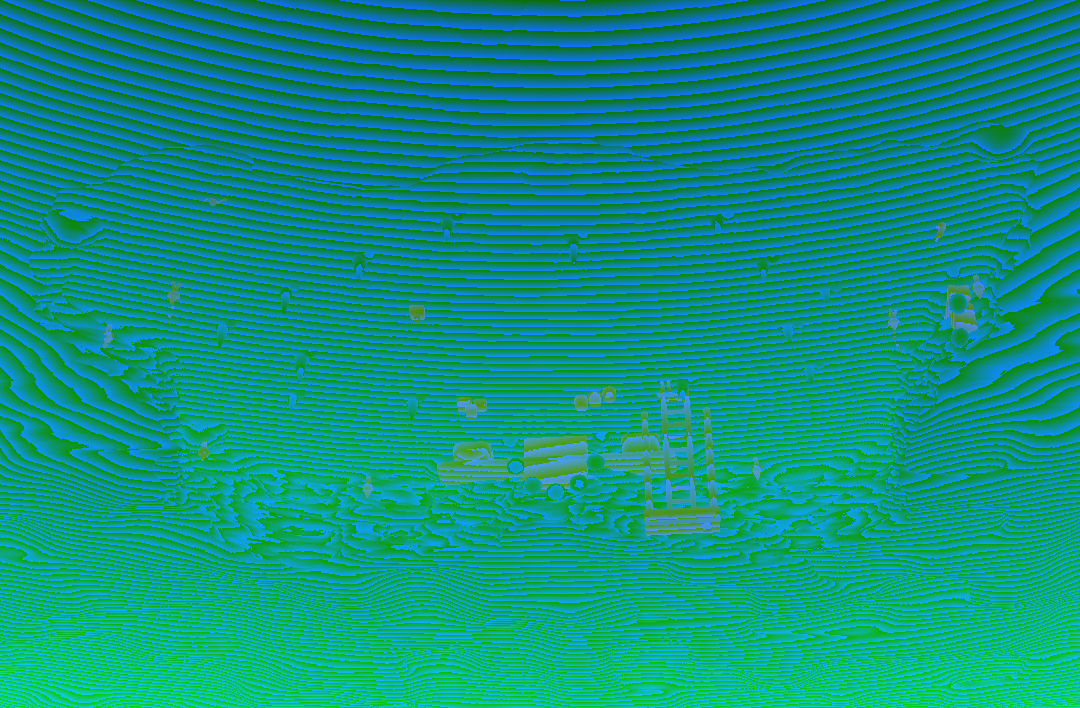
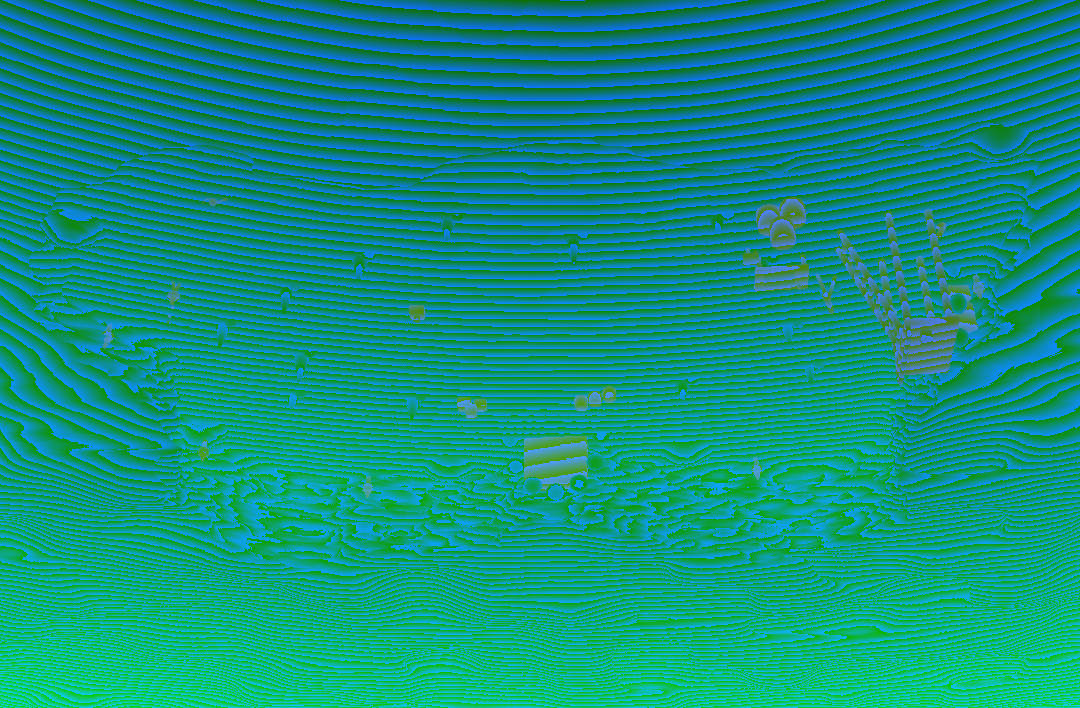
門の横の台を外す・表示の重なり・見張り部屋・施設2つの部屋
Claude-Session: https://claude.ai/code/session_01MpJPWy321815AwYbXUCf2V

diff --git a/index.html b/index.html
@@ -7212,7 +7212,7 @@ document.addEventListener("click", ev => {
 { const _oc2 = openChest19; openChest19 = function (S, c) { if (c.kind !== "lvall") return _oc2(S, c); if (!S.mons.length) return _oc2(S, c);
   return { text: "👑 覚醒", sub: "Lv+3 する子を1体えらんでね", sp: null, feed: 1, awaken: true, evos: [] }; }; }
 
-const VER20 = "No.206（11/18 19:24）";
+const VER20 = "No.207（11/18 20:23）";
 // ================= proto20：ダンジョンを見る画面と、配置する画面を分ける =================
 // ・ダンジョン画面：洞窟を大きく。部屋をタップ → 部屋ボード（全画面）
 // ・🧭育成：育てる→稼ぐ／守るの流れで見る。卒業Lv・毎朝おまかせ
@@ -9571,6 +9571,7 @@ function caveFS24(room, sps){
   const cut = (a, b) => { const i = sc.indexOf(a), j = sc.indexOf(b, i); if (i < 0 || j < 0) throw new Error("cave24 cut " + a); sc = sc.slice(0, i) + sc.slice(j); };
   const rep = (a, b) => { if (!sc.includes(a)) throw new Error("cave24 rep: " + a); sc = sc.split(a).join(b); };
   cut(" // 寝わら", " // 掘る岩"); cut(" // 掘る岩", " // かがり火");
+  if (R.noBeam) cut(" // 坑道の木の支え", " // 訓練台（わら人形）");
   if (!R.keepDummy) cut(" // 訓練台（わら人形）", " // 武器立て");
   if (room === "sleep" || R.noRack) cut(" // 武器立て", " // かがり火");
   const props = R.props.replace(/FIREPIT\(([-\d.]+),([-\d.]+)\)/g, (m, x, z) => FIREPIT24(x, z)).replace("CRATES", CRATES24);
@@ -10610,8 +10611,8 @@ const NEST25 = (x, z, s, n) => { const X = (+x).toFixed(2), Z = (+z).toFixed(2),
   float bt=sEll(q-vec3(0.0,0.12,0.0),vec3(0.85,0.12,0.72))+(vnoise(q*11.0)-0.5)*0.04;if(bt*${S}<r.x)r=vec2(bt*${S},14.0);
   for(int i=0;i<3;i++){if(i>=${n})break;vec3 c=i==0?vec3(-0.32,0.48,-0.14):i==1?vec3(0.34,0.46,0.02):vec3(0.0,0.44,0.4);vec3 e=q-c;e.xy=mat2(0.96,0.28,-0.28,0.96)*e.xy;float eg=sEll(e,vec3(0.3,0.4,0.3));if(eg*${S}<r.x)r=vec2(eg*${S},15.0);}}`; };
 // 見張り：壁に立てかけたはしごと、上の足場
-const LADDER25 = (x, z) => { const X = (+x).toFixed(2), Z = (+z).toFixed(2);
-  return ` {vec3 q=(p-vec3(${X},0.0,${Z}))/1.35;vec3 A=vec3(0.0,0.0,0.0),B=vec3(0.0,4.4,-1.5);float ld=1e3;
+const LADDER25 = (x, z, side) => { const X = (+x).toFixed(2), Z = (+z).toFixed(2), Q = side ? `vec3(p.z-(${Z}),p.y,-(p.x-(${X})))` : `(p-vec3(${X},0.0,${Z}))`;
+  return ` {vec3 q=${Q}/1.35;vec3 A=vec3(0.0,0.0,0.0),B=vec3(0.0,4.4,-1.5);float ld=1e3;
   for(int s=0;s<2;s++){float sx=s==0?-0.42:0.42;ld=min(ld,sTap(q,A+vec3(sx,0.0,0.0),B+vec3(sx,0.0,0.0),0.065,0.06));}
   for(int i=1;i<10;i++){float t=float(i)/10.0;vec3 c=mix(A,B,t);ld=min(ld,sTap(q,c-vec3(0.42,0.0,0.0),c+vec3(0.42,0.0,0.0),0.04,0.04));}ld*=1.35;if(ld<r.x)r=vec2(ld,12.0);
   float pf=sRBox(q-vec3(0.0,4.35,-2.1),vec3(1.3,0.07,0.75),0.02)*1.35;if(pf<r.x)r=vec2(pf,22.0);
@@ -10623,6 +10624,15 @@ const BARR25 = (x, z) => { const X = (+x).toFixed(2), Z = (+z).toFixed(2);
   return ` {vec3 q=(p-vec3(${X},0.0,${Z}))/1.6;float bl=sTap(q,vec3(-1.9,0.5,0.0),vec3(1.9,0.5,0.0),0.13,0.13);
   for(int i=0;i<5;i++){float x0=-1.6+float(i)*0.8;bl=min(bl,sTap(q,vec3(x0,0.0,-0.75),vec3(x0,1.15,0.75),0.075,0.008));bl=min(bl,sTap(q,vec3(x0,0.0,0.75),vec3(x0,1.15,-0.75),0.075,0.008));}
   bl+=(vnoise(q*9.0)-0.5)*0.02;bl*=1.6;if(bl<r.x)r=vec2(bl,12.0);}`; };
+// 見張り部屋の小物：地図の机・腰かけ・たる・遠めがね
+const WATCH25 = () => ` {vec3 q=p-vec3(11.0,0.0,3.6);float tb=sRBox(q-vec3(0.0,0.85,0.0),vec3(1.1,0.06,0.7),0.02);if(tb<r.x)r=vec2(tb,22.0);
+  float lg=1e3;for(int i=0;i<4;i++){vec2 c=vec2(i<2?-0.95:0.95,mod(float(i),2.0)<0.5?-0.55:0.55);lg=min(lg,sTap(q,vec3(c.x,0.0,c.y),vec3(c.x,0.82,c.y),0.06,0.06));}if(lg<r.x)r=vec2(lg,12.0);
+  float mp=sRBox(q-vec3(-0.1,0.925,0.05),vec3(0.62,0.012,0.45),0.005);if(mp<r.x)r=vec2(mp,15.0);
+  float cd=sTap(q,vec3(0.75,0.91,-0.4),vec3(0.75,1.08,-0.4),0.045,0.04);if(cd<r.x)r=vec2(cd,15.0);float fl=sEll(q-vec3(0.75,1.14,-0.4),vec3(0.03,0.06,0.03));if(fl<r.x)r=vec2(fl,17.0);
+  vec3 s=q-vec3(-1.3,0.0,1.0);float st=sRBox(s-vec3(0.0,0.5,0.0),vec3(0.3,0.05,0.3),0.03);for(int i=0;i<3;i++){float a=float(i)*2.094;st=min(st,sTap(s,vec3(cos(a)*0.24,0.0,sin(a)*0.24),vec3(cos(a)*0.15,0.48,sin(a)*0.15),0.04,0.035));}if(st<r.x)r=vec2(st,12.0);}
+ {for(int i=0;i<3;i++){vec3 c=i==0?vec3(10.4,0.0,7.1):i==1?vec3(11.35,0.0,7.45):vec3(10.85,0.92,7.25);vec3 q=p-c;float br=max(length(q.xz)-(0.4+0.06*cos((q.y-0.46)*2.6)),abs(q.y-0.46)-0.46)-0.02;if(br<r.x)r=vec2(br,23.0);}}
+ {vec3 q=p-vec3(13.0,0.0,2.4);float tp=1e3;for(int i=0;i<3;i++){float a=float(i)*2.094+0.3;tp=min(tp,sTap(q,vec3(cos(a)*0.5,0.0,sin(a)*0.5),vec3(0.0,1.3,0.0),0.035,0.03));}if(tp<r.x)r=vec2(tp,12.0);
+  float sg=sTap(q,vec3(-0.12,1.32,0.42),vec3(0.16,1.52,-0.5),0.1,0.065);if(sg<r.x)r=vec2(sg,18.0);float rg=sTap(q,vec3(-0.1,1.33,0.36),vec3(-0.08,1.345,0.3),0.115,0.115);if(rg<r.x)r=vec2(rg,22.0);}`;
 const HAI25 = (() => {
   const L = r => ROOMS24[r].props.split("\n");
   const T = L("train"), M = L("mine"), S = L("sleep");
@@ -10643,8 +10653,9 @@ const HAI25 = (() => {
     { id: "crate", name: "木箱とランタン", g: "crate", txt: "CRATES", light: "LANTERNL", foot: [[-1.8, -4.2, 0.8], [-3.2, 3.55, 0.6]] },
     { id: "gate", name: "入口の門（奥の壁）", g: "none", txt: GATE25(0, -9.4, 0), light: "LIGHT(0.0,2.4,-8.4,1.0,0.6,0.3,2.2)", foot: [[0, -9.2, 1.8]] },
     { id: "gate2", name: "出口の門（右の壁）", g: "none", txt: GATE25(18.4, 0, 1), light: "LIGHT(17.2,2.4,0.0,1.0,0.6,0.3,2.0)", foot: [[18.0, 0, 1.6]] },
-    { id: "nest", name: "巣（たまご）", g: "none", txt: NEST25(0, -2.0, 1.9, 3) + NEST25(-7.0, 1.6, 1.25, 2) + NEST25(6.8, 1.0, 1.25, 3) + NEST25(-3.6, 4.6, 1.0, 1), light: "LIGHT(0.0,1.8,-2.0,1.0,0.72,0.42,4.0)", foot: [[0, -2.0, 2.6], [-7.0, 1.6, 1.8], [6.8, 1.0, 1.8], [-3.6, 4.6, 1.4]] },
-    { id: "ladder", name: "見張りのはしごと足場", g: "none", txt: LADDER25(6.2, -5.6), light: "LIGHT(6.2,5.4,-7.4,0.75,0.85,1.0,3.4)", foot: [[6.2, -5.8, 1.3], [6.2, -7.6, 1.8]] },
+    { id: "nest", name: "巣（たまご）", g: "none", txt: NEST25(0, -2.0, 1.9, 3) + NEST25(-11.0, 5.8, 1.25, 2) + NEST25(4.2, 4.2, 1.25, 3), light: "LIGHT(0.0,1.8,-2.0,1.0,0.72,0.42,4.0)", foot: [[0, -2.0, 2.6], [-11.0, 5.8, 1.8], [4.2, 4.2, 1.8]] },
+    { id: "ladder", name: "見張りのはしごと足場", g: "none", txt: LADDER25(13.4, 5.0, 1), light: "LIGHT(15.4,5.2,5.0,0.75,0.85,1.0,3.4)", foot: [[13.6, 5.0, 1.4], [15.6, 5.0, 1.8]] },
+    { id: "watch2", name: "地図の机とたる・遠めがね", g: "none", txt: WATCH25(), light: "LIGHT(11.0,1.4,3.2,1.0,0.7,0.35,2.6)", foot: [[11.0, 3.6, 1.4], [9.7, 4.6, 0.5], [10.9, 7.3, 1.0], [13.0, 2.4, 0.7]] },
     { id: "barr", name: "とげのバリケード", g: "none", txt: BARR25(-4.4, -5.0) + BARR25(4.4, -5.0) + BARR25(-10.6, -3.4) + BARR25(10.6, -3.4), foot: [-7.2, -4.4, -1.6, 1.6, 4.4, 7.2, -13.4, -10.6, -7.8, 7.8, 10.6, 13.4].map((x, k) => [x, k < 6 ? -5.0 : -3.4, 1.2]) },
     { id: "dummy", name: "わら人形", shell: 1, foot: [[-2.05 * 6.34, 0.55 * 5.76, 0.8]] },
     { id: "rack", name: "武器立て", shell: 1, foot: [[-1.35 * 6.34, -1.65 * 5.76, 0.8]] },
@@ -10657,7 +10668,7 @@ const HAI25 = (() => {
   // 選んだ施設から部屋を作る（名前は中身ごとに変える）
   function room(on){ const key = "c_" + MODS.filter(m => on[m.id]).map(m => m.id).join("_");
     if (!ROOMS24[key]) { const ms = MODS.filter(m => on[m.id] && !m.shell);
-      ROOMS24[key] = { props: "\n" + ms.map(wrap).join("\n"), lights: ms.filter(m => m.light).map(lightOf).join(" "), keepDummy: !!on.dummy, noRack: !on.rack, noTorch: !on.torch, noStal: !on.stal }; }
+      ROOMS24[key] = { props: "\n" + ms.map(wrap).join("\n"), lights: ms.filter(m => m.light).map(lightOf).join(" "), keepDummy: !!on.dummy, noRack: !on.rack, noTorch: !on.torch, noStal: !on.stal, noBeam: true }; }
     return key; }
   // 施設の場所（ぶつからないように）
   function foots(on){ const F = [];
@@ -10782,15 +10793,19 @@ const ROOMSET25 = {
   bed: ["bed", "pot", "torch", "stal", "gate", "gate2"],
   lord: ["pit1", "crate", "torch", "stal", "gate"],
   nest: ["nest", "crate", "torch", "stal", "gate", "gate2"],
-  watch: ["ladder", "crate", "pick", "torch", "stal", "gate", "gate2"],
+  watch: ["ladder", "watch2", "crate", "torch", "stal", "gate", "gate2"],
   entry: ["barr", "crate", "lamp", "rack", "torch", "stal", "gate", "gate2"],
   plain: ["crate", "torch", "stal", "gate", "gate2"] };
+// 施設が2つ以上ある部屋は、上位2つを合わせた部屋（例：mine_bed）
+const KORD25 = ["train", "mine", "bed", "nest", "watch"];
+KORD25.forEach((a, i) => KORD25.slice(i + 1).forEach(b => { ROOMSET25[a + "_" + b] = [...new Set(ROOMSET25[a].concat(ROOMSET25[b]))]; }));
 function roomKind25(i){ const R = S.path[i] || {}; if (i === lordIdx(S)) return "lord";
   let F = []; try { F = pkLayout24(i).F || []; } catch (e) {}
+  { const two = KORD25.filter(k => F.includes(k) || (k === R.fac && !F.length)).slice(0, 2); if (two.length === 2) return two.join("_"); }
   return F.includes("train") ? "train" : F.includes("mine") ? "mine" : F.includes("bed") ? "bed" : R.fac === "mine" ? "mine" : R.fac === "bed" ? "bed" : R.fac === "train" ? "train" : F.includes("nest") || R.fac === "nest" ? "nest" : F.includes("watch") || R.fac === "watch" ? "watch" : F.includes("gate") || R.fac === "gate" ? "entry" : "plain"; }
 // 配った洞窟の絵（bg25/部屋の種類_c.png・_d.png）があれば、それを読み込む
 function setRoom25(i){ const C = B3.C; C.setRoom(B3.roomKey); const k = roomKind25(i); if (!BGSHIP25[k]) return; C.putBgImages(`bg25/${k}_c.png?v=${BGSHIP25[k]}`, `bg25/${k}_d.png?v=${BGSHIP25[k]}`, C.st.bgKey); }
-const BGSHIP25 = { train: "7d414ede", mine: "2171bf26", bed: "142b037d", lord: "78e5fe1e", plain: "1373feff", nest: "61cdba1e", watch: "51742a69", entry: "72d8152f" };
+const BGSHIP25 = { train: "fd282ce3", mine: "f6c4e409", bed: "3f1c9fef", lord: "961e1f67", plain: "43787f10", nest: "92cc858e", watch: "a7d8de73", entry: "a8a68ce5", train_mine: "52dcb95c", train_bed: "8fba5ad9", train_nest: "d84b8dc8", train_watch: "42cc71e7", mine_bed: "680cf510", mine_nest: "11aafbdb", mine_watch: "22b99272", bed_nest: "3d83bc11", bed_watch: "994ec677", nest_watch: "4e4b4c24" };
 function roomKey25(i){ const on = {}; ROOMSET25[roomKind25(i)].forEach(k => on[k] = true); return HAI25.room(on); }
 // ---- 3Dのキャラの種類 ----
 const heroSp25 = h => (typeof heroId === "function" ? String(heroId(h)).replace(/\d+$/, "") : h.job) || "warrior";
@@ -11015,7 +11030,7 @@ function dcard25(card, i, now, dt){
   const cv = card.querySelector("canvas"), r = cv.getBoundingClientRect(), dpr = Math.min(2, window.devicePixelRatio || 1), W = Math.round(r.width * dpr), H = Math.round(r.height * dpr);
   if (!W) return; if (cv.width !== W || cv.height !== H) { cv.width = W; cv.height = H; }
   const g = cv.getContext("2d"); g.imageSmoothingEnabled = false;
-  const R = droom25(i), bg = dimg25(`bg25/${R.kind}_full.png?v=4`); if (bg.ok) g.drawImage(bg, 0, 0, W, H); else { g.fillStyle = "#1a1412"; g.fillRect(0, 0, W, H); }
+  const R = droom25(i), bg = dimg25(`bg25/${R.kind}_full.png?v=${BGSHIP25[R.kind] || 5}`); if (bg.ok) g.drawImage(bg, 0, 0, W, H); else { g.fillStyle = "#1a1412"; g.fillRect(0, 0, W, H); }
   { const E = D3.edge && D3.edge.h === H ? D3.edge : (D3.edge = { h: H, t: (() => { const q = g.createLinearGradient(0, 0, 0, H); q.addColorStop(0, "rgba(16,14,12,1)"); q.addColorStop(0.07, "rgba(16,14,12,0)"); q.addColorStop(0.9, "rgba(16,14,12,0)"); q.addColorStop(1, "rgba(16,14,12,1)"); return q; })() }); g.fillStyle = E.t; g.fillRect(0, 0, W, H); }
   // 動き：ときどき近くへ歩く（働いている子・寝ている子はその場）
   R.acts.forEach(a => { if (a.mode === "idle" && !a.lord && now > a.next) { a.next = now + 2.5 + Math.random() * 4; const ang = Math.random() * 6.28, d = Math.random() * 2.2; a.tx = a.hx + Math.cos(ang) * d; a.tz = a.hz + Math.sin(ang) * d * 0.6; }
@@ -11040,12 +11055,22 @@ function dcard25(card, i, now, dt){
 D3.pops = {};
 function dpops25(g, i, R, now, dpr, W, H){ const L = D3.pops[i]; if (!L || !L.length) return;
   D3.pops[i] = L.filter(p => now - p.t0 < p.ms);
-  D3.pops[i].forEach(p => { const q = (now - p.t0) / p.ms, al = q < 0.12 ? q / 0.12 : q > 0.72 ? (1 - q) / 0.28 : 1;
-    let x, y; if (p.a && p.a.sx != null && R.acts.includes(p.a)) { x = p.a.sx; y = p.a.sy - 12 * dpr; } else { x = p.u * W; y = p.v * H; }
-    y -= (p.talk ? 4 : 16) * dpr * q + (p.lift || 0) * 15 * dpr; g.save(); g.globalAlpha = Math.max(0, al); g.textAlign = "center"; g.textBaseline = "middle";
-    if (p.talk) { g.font = `bold ${Math.round(10.5 * dpr)}px system-ui`; const tw = g.measureText(p.text).width + 12 * dpr, th = 18 * dpr; x = Math.max(tw / 2 + 2, Math.min(W - tw / 2 - 2, x)); y = Math.max(th / 2 + 2, y - 6 * dpr);
+  // 先に置き場所を決める：吹き出しを先に、ほかの文字は重ならないところまで上へ（多すぎたら小さい文字は出さない）
+  const placed = [{ x0: 0, y0: 0, x1: 78 * dpr, y1: 30 * dpr }], items = D3.pops[i].slice().sort((a, b) => (b.talk ? 1 : 0) - (a.talk ? 1 : 0) || a.t0 - b.t0);
+  items.forEach(p => { if (p.hide) return; const q = (now - p.t0) / p.ms; p.al = q < 0.12 ? q / 0.12 : q > 0.72 ? (1 - q) / 0.28 : 1;
+    let x, y; if (p.a && p.a.sx != null && R.acts.includes(p.a)) { x = p.a.sx; y = p.a.sy - 10 * dpr; } else { x = p.u * W; y = p.v * H; }
+    y -= (p.talk ? 3 : 12) * dpr * q;
+    if (p.talk) { g.font = `bold ${Math.round(10.5 * dpr)}px system-ui`; p.w = g.measureText(p.text).width + 12 * dpr; p.h = 18 * dpr; y -= 6 * dpr; }
+    else { g.font = `900 ${Math.round(13 * dpr)}px system-ui`; p.w = g.measureText(p.text).width + 4 * dpr; p.h = 15 * dpr; }
+    x = Math.max(p.w / 2 + 2, Math.min(W - p.w / 2 - 2, x)); y = Math.max(p.h / 2 + 2, y);
+    const hit = (x, y) => placed.find(b => x - p.w / 2 < b.x1 && x + p.w / 2 > b.x0 && y - p.h / 2 < b.y1 && y + p.h / 2 > b.y0);
+    let k = 0; for (let b = hit(x, y); b && k < 6; b = hit(x, y), k++) { const up = b.y0 - p.h / 2 - 2; if (up > p.h / 2 + 2) y = up; else { const right = b.x1 + p.w / 2 + 2; x = right + p.w / 2 < W ? right : b.x0 - p.w / 2 - 2; } }
+    if (hit(x, y)) { p.hide = true; return; } p.x = x; p.y = y; placed.push({ x0: x - p.w / 2, y0: y - p.h / 2, x1: x + p.w / 2, y1: y + p.h / 2 }); });
+  items.forEach(p => { if (p.hide) return; const x = p.x, y = p.y; g.save(); g.globalAlpha = Math.max(0, p.al); g.textAlign = "center"; g.textBaseline = "middle";
+    if (p.talk) { const tw = p.w, th = p.h; g.font = `bold ${Math.round(10.5 * dpr)}px system-ui`;
       g.fillStyle = "rgba(255,250,238,0.95)"; g.strokeStyle = "rgba(40,24,12,0.9)"; g.lineWidth = 1.5 * dpr; g.beginPath(); if (g.roundRect) g.roundRect(x - tw / 2, y - th / 2, tw, th, 7 * dpr); else g.rect(x - tw / 2, y - th / 2, tw, th); g.fill(); g.stroke();
-      g.beginPath(); g.moveTo(x - 4 * dpr, y + th / 2 - 1); g.lineTo(x, y + th / 2 + 5 * dpr); g.lineTo(x + 4 * dpr, y + th / 2 - 1); g.fill(); g.fillStyle = "#2a1a0e"; g.fillText(p.text, x, y + 0.5 * dpr); }
+      const ax = p.a && p.a.sx != null ? Math.max(x - tw / 2 + 8 * dpr, Math.min(x + tw / 2 - 8 * dpr, p.a.sx)) : x;
+      g.beginPath(); g.moveTo(ax - 4 * dpr, y + th / 2 - 1); g.lineTo(ax, y + th / 2 + 5 * dpr); g.lineTo(ax + 4 * dpr, y + th / 2 - 1); g.fill(); g.fillStyle = "#2a1a0e"; g.fillText(p.text, x, y + 0.5 * dpr); }
     else { g.font = `900 ${Math.round(13 * dpr)}px system-ui`; g.lineWidth = 3 * dpr; g.strokeStyle = "rgba(20,10,4,0.85)"; g.strokeText(p.text, x, y);
       g.fillStyle = /gem/.test(p.cls) ? "#8ff0ff" : /hitp/.test(p.cls) ? "#ffd27a" : /love/.test(p.cls) ? "#ff9ad0" : "#fff"; g.fillText(p.text, x, y); }
     g.restore(); }); }
